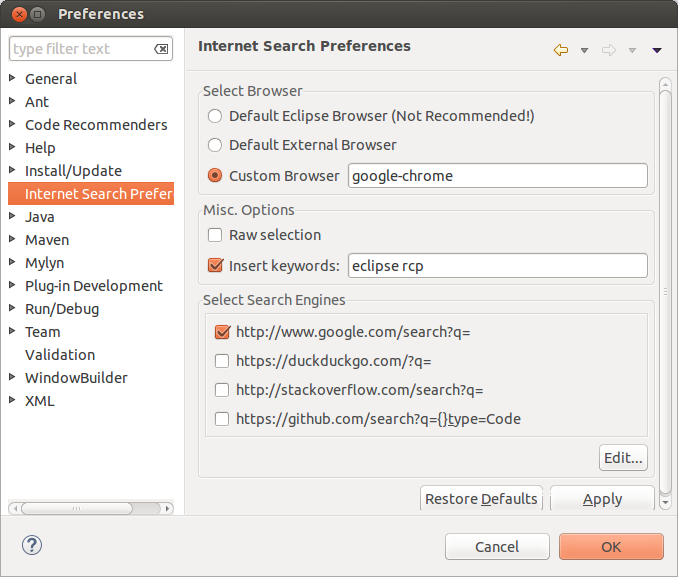
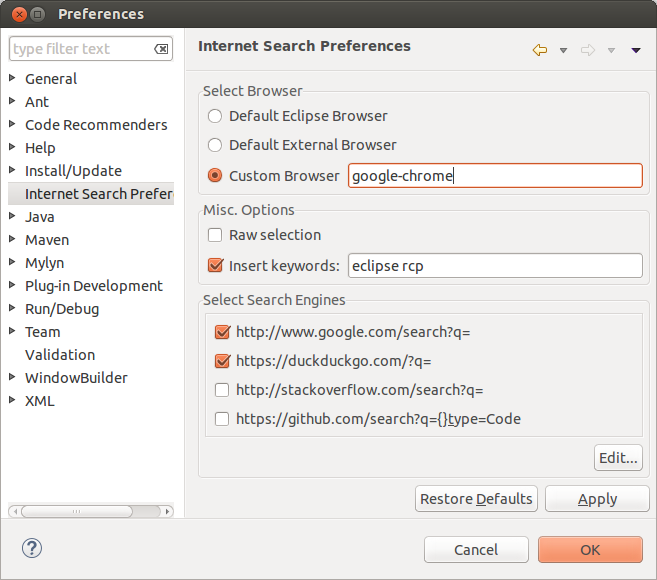
added more screenshots

diff --git a/InternetSearch/src/org/utils/internetsearch/preferences/InternetSearchPreferencePage.java b/InternetSearch/src/org/utils/internetsearch/preferences/InternetSearchPreferencePage.java
@@ -64,7 +64,7 @@ public class InternetSearchPreferencePage extends FieldEditorPreferencePage impl
 		browsersGroup.setText("Select Browser");
 		
 		fDefaultBrowserButton = new Button(browsersGroup, SWT.RADIO);
-		fDefaultBrowserButton.setText("Default Eclipse Browser (Not Recommended!)");
+		fDefaultBrowserButton.setText("Default Eclipse Browser");
 		fDefaultBrowserButton.setLayoutData(new GridData(SWT.FILL, SWT.FILL, true, false, 2, 1));
 		fDefaultBrowserButton.setSelection(ISPrefenceManager.getSelectedBrowser().equals(PreferenceConstants.INTERNAL_BROWSER));
 		

diff --git a/README.md b/README.md
@@ -1,7 +1,7 @@
 InternetSearch
 ==============
 
-Select text and search it on internet (Eclipse plugin) 
+Eclipse plugin that makes it easier to search on internet some selected text
 
 * default internal/external & custom web browser
 * text selection in editor, console, pop-ups/dialogs (styled text components) and raw selection from any View
@@ -10,6 +10,12 @@ Select text and search it on internet (Eclipse plugin)
 * customizable keywords
 
 ![alt ex1.png](https://github.com/alexadam/InternetSearch/blob/master/ex1.png?raw=true "ex1.png")
+
+![alt ex2.png](https://github.com/alexadam/InternetSearch/blob/master/ex2.png?raw=true "ex2.png")
+
+![alt ex3.png](https://github.com/alexadam/InternetSearch/blob/master/ex3.png?raw=true "ex3.png")
+
+![alt ex4.png](https://github.com/alexadam/InternetSearch/blob/master/ex4.png?raw=true "ex4.png")
 
 To-do:
 
